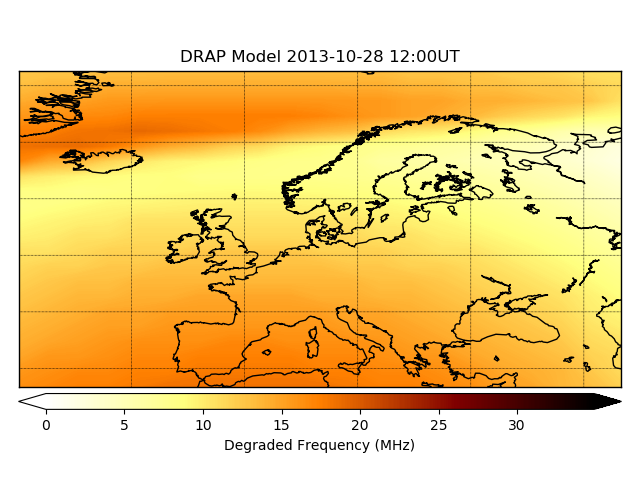
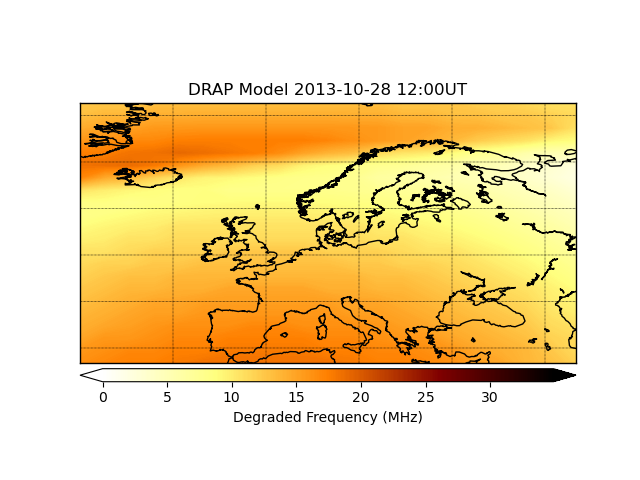
small fixes

diff --git a/plot_drap_functions.py b/plot_drap_functions.py
@@ -104,7 +104,7 @@ def read_global_files(file_path):
 
 
 
-def plot_global_map(lats, lons, full_map, save_plot = None, title = 'DRAP Model'):
+def plot_global_map(lats, lons, full_map, title="DRAP Model", save_plot=None,):
 	'''
 	function to plot map after txt global file read
 
@@ -125,23 +125,28 @@ def plot_global_map(lats, lons, full_map, save_plot = None, title = 'DRAP Model'
 	'''
 
 	fig=plt.figure()
-	m = Basemap(projection = 'cyl', llcrnrlat=-89,urcrnrlat=89, llcrnrlon=-178,urcrnrlon=178, resolution = 'l')
+	m = Basemap(projection='cyl', 
+				llcrnrlat=-89,urcrnrlat=89, 
+				llcrnrlon=-178,urcrnrlon=178, 
+				resolution='l')
 
 	levels = np.arange(0, 35,0.1)
-	#CS1 = m.contour(lons,lats,full_map,levels,linewidths=0.5,colors='k',latlon=True)
-	CS2 = m.contourf(lons,lats,full_map,levels,cmap='afmhot_r', extend='both',latlon=True)
-	cbar = m.colorbar(CS2,location = 'bottom') 
+	CS2 = m.contourf(lons,lats,full_map,levels,cmap='magma_r', extend='both',latlon=True)
+	cbar = m.colorbar(CS2,location = 'right') 
 	cbar.set_label('Degraded Frequency (MHz)')
 	cbar.set_ticks([0, 5, 10, 15, 20, 25, 30])
+
+	# plt.xlim(-30, 50)
+	# plt.ylim(35, 77)
+
 	m.drawcoastlines()
 	m.drawmapboundary()
 
-	m.drawparallels(np.linspace(-90, 90, 25), linewidth = 0.5, labels = [1,0,0,0])
-	m.drawmeridians(np.linspace(-180, 180, 25), linewidth = 0.5, labels = [0,0,0,1])
+	m.drawparallels(np.linspace(-90, 90, 10), linewidth = 0.5, labels = [1,0,0,0])
+	m.drawmeridians(np.linspace(-180, 180, 10), linewidth = 0.5, labels = [0,0,0,1])
 
-	plt.xlim(-30, 50)
+	# plt.xlim(20, 100)
 
-	plt.ylim(35, 77)
 	plt.title(title)
 	plt.tight_layout()
 	
